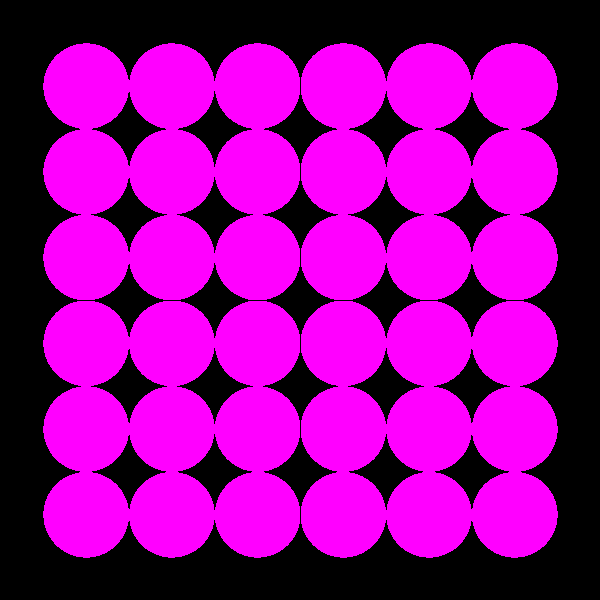
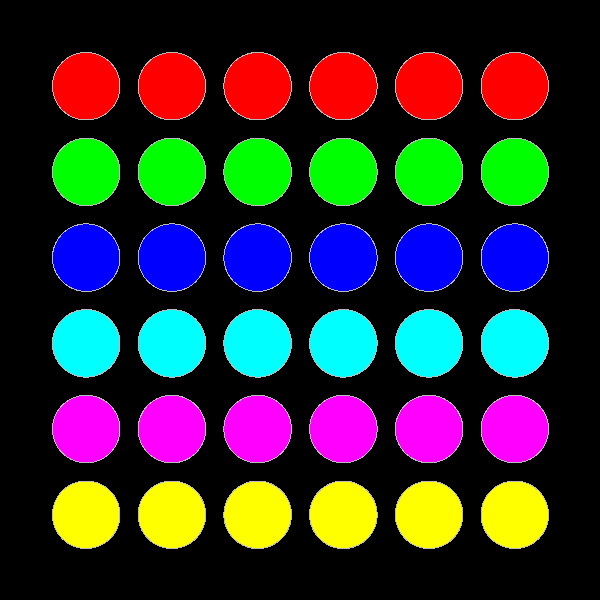
a01-3

diff --git a/src/cgg/A01.java b/src/cgg/A01.java
@@ -3,7 +3,13 @@ package cgg;
 
 import tools.*;
 import static tools.Color.black;
-import static tools.Functions.vec2;
+import static tools.Color.gray;
+import static tools.Color.red;
+import static tools.Color.green;
+import static tools.Color.blue;
+import static tools.Color.cyan;
+import static tools.Color.magenta;
+import static tools.Color.yellow;
 
 
 public class A01 {
@@ -12,30 +18,54 @@ public class A01 {
     int width = 600;
     int height = 600;
 
-    Color magenta = new Color(1.0,0.0,1.0);
-    ConstantColor magentaConstant = new ConstantColor(magenta);
-
     DiscLiveStart drawer = new DiscLiveStart();
-    drawer.drawGridOfCircles(width, height, "6*6_circle", 6, 6, magenta);
+    drawer.drawGridOfCircles(width, height, "6*6_circle", 6, 6);
   } 
-
+    
   public static class DiscLiveStart {
-    public void drawGridOfCircles(int width, int height, String fileName, int rows, int cols, Color circleColor){
+    private Color[] rowColors = {
+        red,
+        green,
+        blue,
+        cyan,
+        magenta,
+        yellow
+    };  
+
+    public void drawGridOfCircles(int width, int height, String fileName, int rows, int cols){
       var image = new Image(width, height);
 
-      // 圆的参数：中心在图像中间，半径为120
+      for (int x=0; x<width; x++){
+        for (int y=0; y<height; y++) {
+          image.setPixel(x, y, black);
+        }
+      }
+
+      // 计算网格参数
       double cellWidth = width / (double)(cols+1);
       double cellHeight = height / (double)(rows+1);
-      double radius = Math.min(cellWidth, cellHeight)/2;
+      double radius = Math.min(cellWidth, cellHeight)/2.5;
+      double borderThickness = 1; //边框厚度
 
 
       //圆的参数，中心在图像中间，半径为120
       for (int row = 0; row < rows; row++){
+        Color fillColor = rowColors[row];
+
         for (int col=0; col<cols; col++){
           double centerX = cellWidth * (col + 1);
           double centerY = cellHeight * (row + 1);
 
-          drawCircle(image, centerX, centerY, radius, circleColor, black); 
+          drawCircleWithBorder(
+            image, 
+            centerX, 
+            centerY, 
+            radius, 
+            borderThickness, 
+            fillColor, 
+            gray,
+            black
+          ); 
         }            
       }     
       // 在画完所有像素后，保存图片
@@ -43,29 +73,43 @@ public class A01 {
     }
 
     //绘制单个圆形的辅助方法
-    private void drawCircle(Image image, double centerX, double centerY, double radius, Color circleColor, Color bgColor){
-      int width = image.width();
-      int height = image.height();
+    private void drawCircleWithBorder(
+      Image image, double centerX, double centerY, 
+      double radius, double borderThickness, 
+      Color fillColor, Color bordeColor,  Color bgColor
+    ){
+      int minX = (int) (centerX - radius - borderThickness);
+      int maxX = (int) (centerX + radius + borderThickness);
+      int minY = (int) (centerY - radius - borderThickness);
+      int maxY = (int) (centerY + radius + borderThickness);
+     
+
+      //内圆半径=外圆半径-边框厚度
+      double innerRadius = radius - borderThickness;
+      double outerRadiusSquared = radius * radius;
+      double innerRadiusSquared = innerRadius * innerRadius;                                  
 
       //遍历图像所有像素
-      for (int x=0; x<width; x++) {
-        for (int y=0; y<height; y++) {
+      for (int x = Math.max(0, minX); x< Math.min(image.width(), maxX); x++) {
+        for (int y=Math.max(0, minY); y < Math.min(image.height(), maxY); y++) {
           //计算像素到圆心的距离平方
           double dx = x-centerX;
           double dy = y-centerY;
           double distanceSquared = dx * dx + dy * dy;
 
           //根据距离设置像素颜色
-          if(distanceSquared <= radius * radius){
-            image.setPixel(x,y,circleColor);
-          }else{
-            if (image.getPixel(x, y) == null){
-              image.setPixel(x, y, bgColor);
+          if(distanceSquared <= outerRadiusSquared){
+            //圆形区域内
+            if(distanceSquared > innerRadiusSquared){
+            //边框灰色
+              image.setPixel(x, y, bordeColor);
+            }else{
+              //如果在内部填充区域内，画填充颜色
+              image.setPixel(x, y, fillColor);
             }
           }
         }
       }
     }
-}
-        
+  }       
 }
